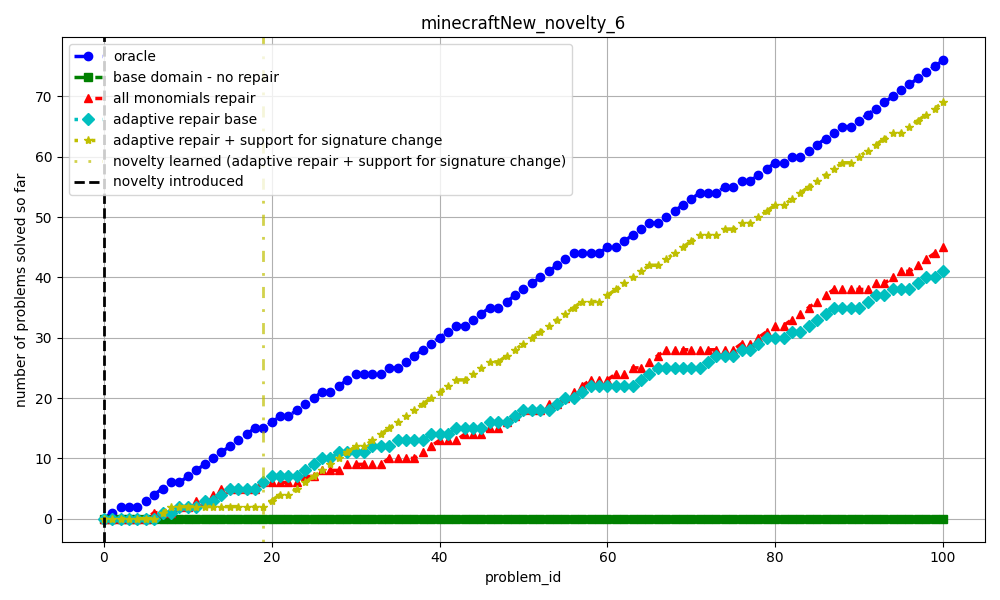
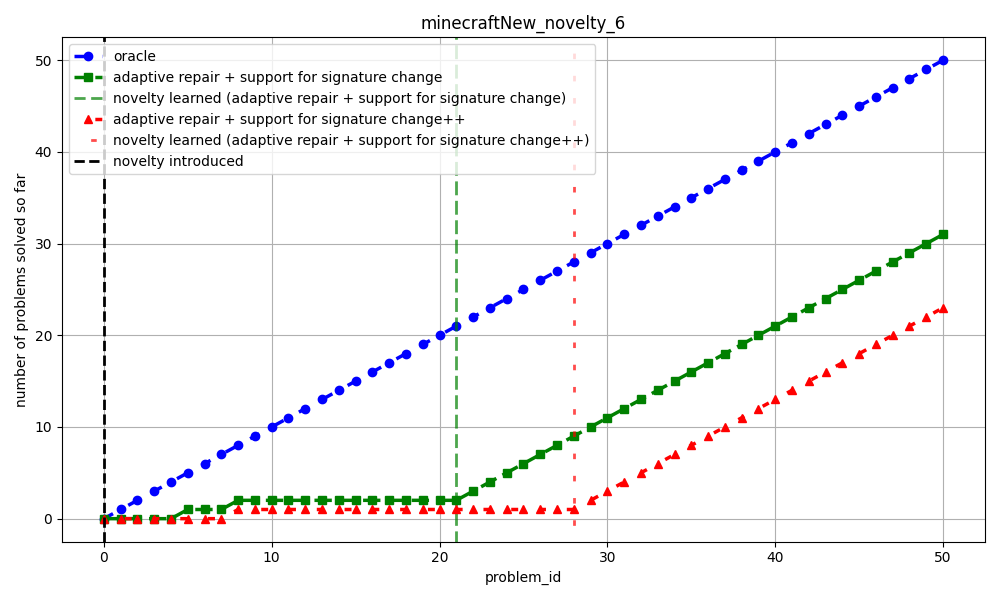
commit

diff --git a/plots/timeTable/timeTable.py b/plots/timeTable/timeTable.py
@@ -1,66 +1,39 @@
-import os
-import ast
 import pandas as pd
+import matplotlib.pyplot as plt
+import ast
+import os
 
-# Configurations from your script
-domains = ["sailing", "minecraft", "drone", "expedition", "sailingNew", "minecraftNew", "expeditionNew", "droneNew"]
-difficulty_map = {
-    "Level 1 (1-3)": [1, 2, 3],
-    "Level 2 (4-6)": [4, 5, 6],
-    "Level 3 (7-9)": [7, 8, 9],
-}
-base_dir = "results_csv"  # Adjust path as needed (e.g., "../../results_csv")
+# Adjust these to match your local setup
+base_dir = "results_csv"
+fname = os.path.join("../../", base_dir, "minecraftNew_5_data.csv")
 
+if os.path.exists(fname):
+    df = pd.read_csv(fname)
 
-def parse_and_sum(val):
-    try:
-        # Convert the string representation of a list into a real list
-        data_list = ast.literal_eval(str(val).strip())
+    # Iterate through each row to create individual plots
+    for index, row in df.iterrows():
+        label = row['Label']
+        raw_times = row['execute & repair time']
 
-        # Calculate average: Sum / Count
-        if len(data_list) == 0:
-            return 0
-        return sum(data_list) / len(data_list)
-    except:
-        return 0.0
+        try:
+            # Convert string representation of list to a Python list
+            times_list = ast.literal_eval(raw_times)
 
+            if isinstance(times_list, list) and len(times_list) > 0:
+                plt.figure(figsize=(10, 4))
+                plt.plot(times_list, marker='o', color='#e67e22', linewidth=2)
 
-all_results = []
+                plt.title(f"Repair Time Progression: {label}", fontsize=14)
+                plt.xlabel("Repair Event Index", fontsize=12)
+                plt.ylabel("Time (seconds)", fontsize=12)
+                plt.grid(True, linestyle='--', alpha=0.5)
 
-for domain in domains:
-    for level_name, indices in difficulty_map.items():
-        group_dfs = []
-        for i in indices:
-            print(i)
-            print(domain)
-            fname = os.path.join("../../",base_dir, f"{domain}_{i}_data.csv")
-            if os.path.exists(fname):
-                df = pd.read_csv(fname)
-                # Apply parsing to your time columns
-                df[f'p_{i}'] = df['planing time'].apply(parse_and_sum)
-                df[f'e_{i}'] = df['execute & repair time'].apply(parse_and_sum)
-                group_dfs.append(df[['Label', f'p_{i}', f'e_{i}']])
+                plt.tight_layout()
+                plt.show()
+            else:
+                print(f"Skipping {label}: No time data found.")
 
-        if group_dfs:
-            merged = group_dfs[0]
-            for next_df in group_dfs[1:]:
-                merged = pd.merge(merged, next_df, on='Label', how='outer')
-
-            merged = merged.fillna(0)
-            p_cols = [c for c in merged.columns if 'p_' in c]
-            e_cols = [c for c in merged.columns if 'e_' in c]
-
-            # Create the final averages
-            res = pd.DataFrame({
-                'Domain': domain,
-                'Level': level_name,
-                'Label': merged['Label'],
-                'Avg Planning': merged[p_cols].mean(axis=1),
-                'Avg Exec & Repair': merged[e_cols].mean(axis=1)
-            })
-            all_results.append(res)
-
-if all_results:
-    final_table = pd.concat(all_results, ignore_index=True)
-    final_table.to_csv('aggregated_drone_times.csv', index=False)
-    print("Table created: aggregated_drone_times.csv")
+        except Exception as e:
+            print(f"Could not plot row {index} ({label}): {e}")
+else:
+    print(f"CSV file not found at {fname}. Please check your file path.")

diff --git a/plots/timePlot/timeploter.py b/plots/timePlot/timeploter.py
@@ -1,0 +1,51 @@
+import pandas as pd
+import matplotlib.pyplot as plt
+import ast
+import os
+
+# Path configuration
+base_dir = "results_csv"
+fname = os.path.join("../../", base_dir, "minecraftNew_4_data.csv")
+
+if os.path.exists(fname):
+    df = pd.read_csv(fname)
+
+    plt.figure(figsize=(12, 7))
+
+    plot_count = 0  # Track if we actually plot anything
+
+    for index, row in df.iterrows():
+        # Ensure label is a string and not empty
+        label_text = str(row['Label']) if pd.notnull(row['Label']) else f"Row {index}"
+        raw_times = row['execute & repair time']
+
+        try:
+            # Parse the list
+            times_list = ast.literal_eval(raw_times)
+
+            if isinstance(times_list, tuple) and len(times_list) > 0:
+                # We explicitly set the label here
+                plt.plot(times_list, marker='o', label=label_text, alpha=0.8, linewidth=1.5)
+                plot_count += 1
+
+        except Exception as e:
+            print(f"Skipping row {index} ({label_text}) due to parsing error: {e}")
+
+    # Graph styling
+    plt.title("Comparative Execution & Repair Times", fontsize=14)
+    plt.xlabel("Repair Event Index", fontsize=12)
+    plt.ylabel("Time (seconds)", fontsize=12)
+    plt.grid(True, linestyle='--', alpha=0.5)
+
+    # Only show legend if we actually have labeled data
+    if plot_count > 0:
+        plt.legend(bbox_to_anchor=(1.05, 1), loc='upper left', borderaxespad=0.)
+    else:
+        print("Warning: No data was plotted. Check if 'execute & repair time' column is empty.")
+
+    plt.tight_layout()
+    plt.show()
+    plt.savefig('plot_time.png')
+
+else:
+    print(f"File not found: {fname}")

diff --git a/solution/main.py b/solution/main.py
@@ -196,7 +196,7 @@ def main(novelty_id_arg=None, domain_name_arg=None):
     # Run evaluations
     print(f"Running: domain={domain_name}, novelty_id={novelty_id}")
     modes = [
-        #("oracle", ORACLE),
+        ("oracle", ORACLE),
         #("base domain - no repair", NO_REPAIR),
         #("rel. variables repair", REPAIR_RELEVANT_VARIABLES),
         #("all variables repair", REPAIR_ALL_VARIABLES),
@@ -237,7 +237,7 @@ def run_novelties(domain_name, start=1, end=10):
 def main_entry():
     clean()
     if len(sys.argv) < 3:
-        run_novelties("minecraftNew", start=4, end=6)
+        run_novelties("minecraftNew", start=5, end=7)
         return
 
     domain_name = sys.argv[1]

diff --git a/solution/baseAgent/Planner.py b/solution/baseAgent/Planner.py
@@ -65,7 +65,7 @@ class Planner:
             elif Config.domain_name == "sailing" or Config.domain_name == "sailingNew":
                 nyx.runner(domain_path, problem_path, ["-timeout:60", "search:gbfs", "custom_heuristic:2"])
             elif Config.domain_name == "minecraft" or Config.domain_name == "minecraftNew":
-                nyx.runner(domain_path, problem_path, ["-timeout:10", "search:bfs"])
+                nyx.runner(domain_path, problem_path, ["-timeout:30", "search:bfs"])
             elif Config.domain_name == "counters":
                 nyx.runner(domain_path, problem_path, ["-timeout:10", "search:gbfs", "custom_heuristic:4"])
             else:
